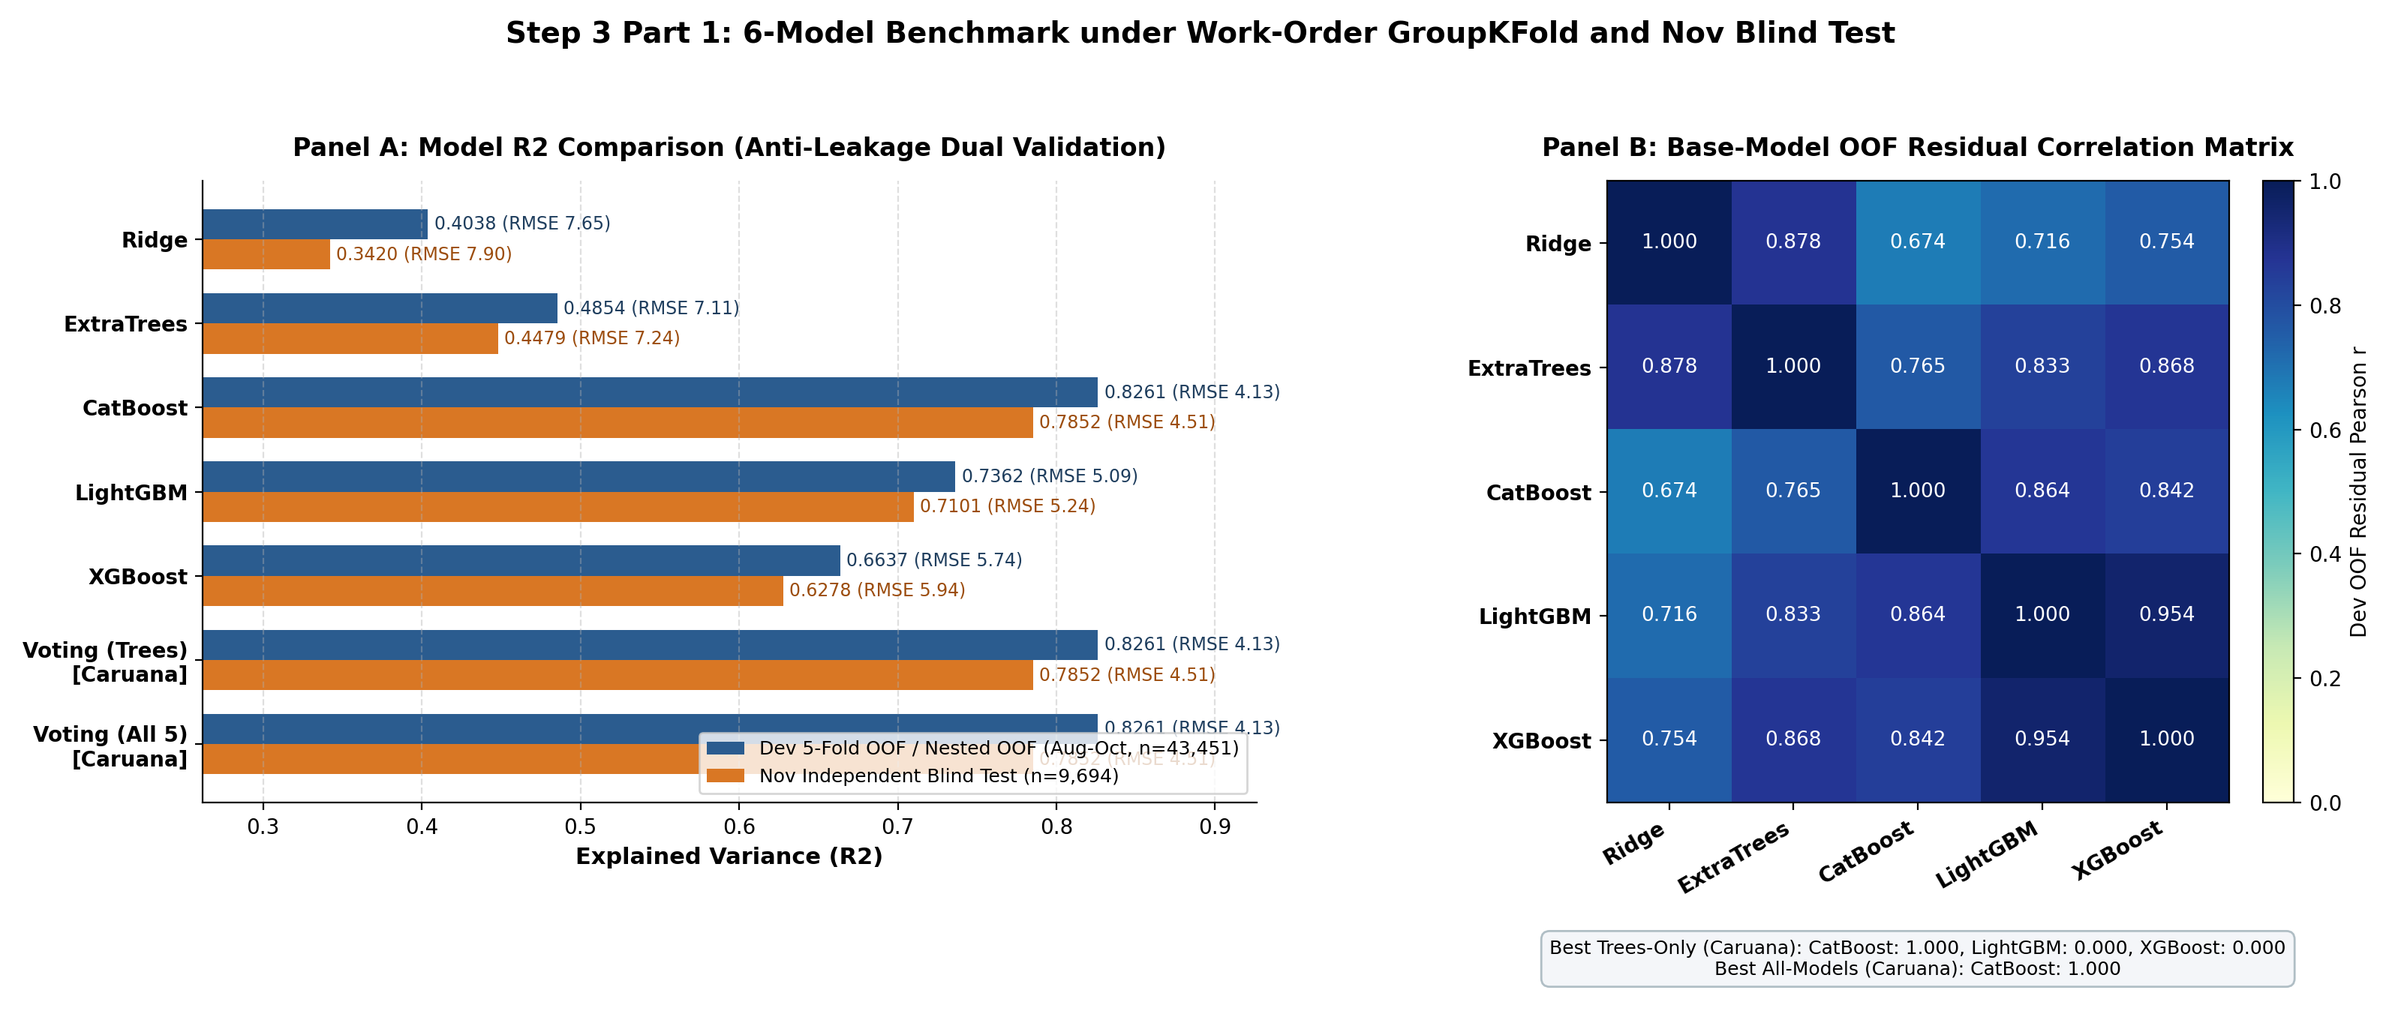
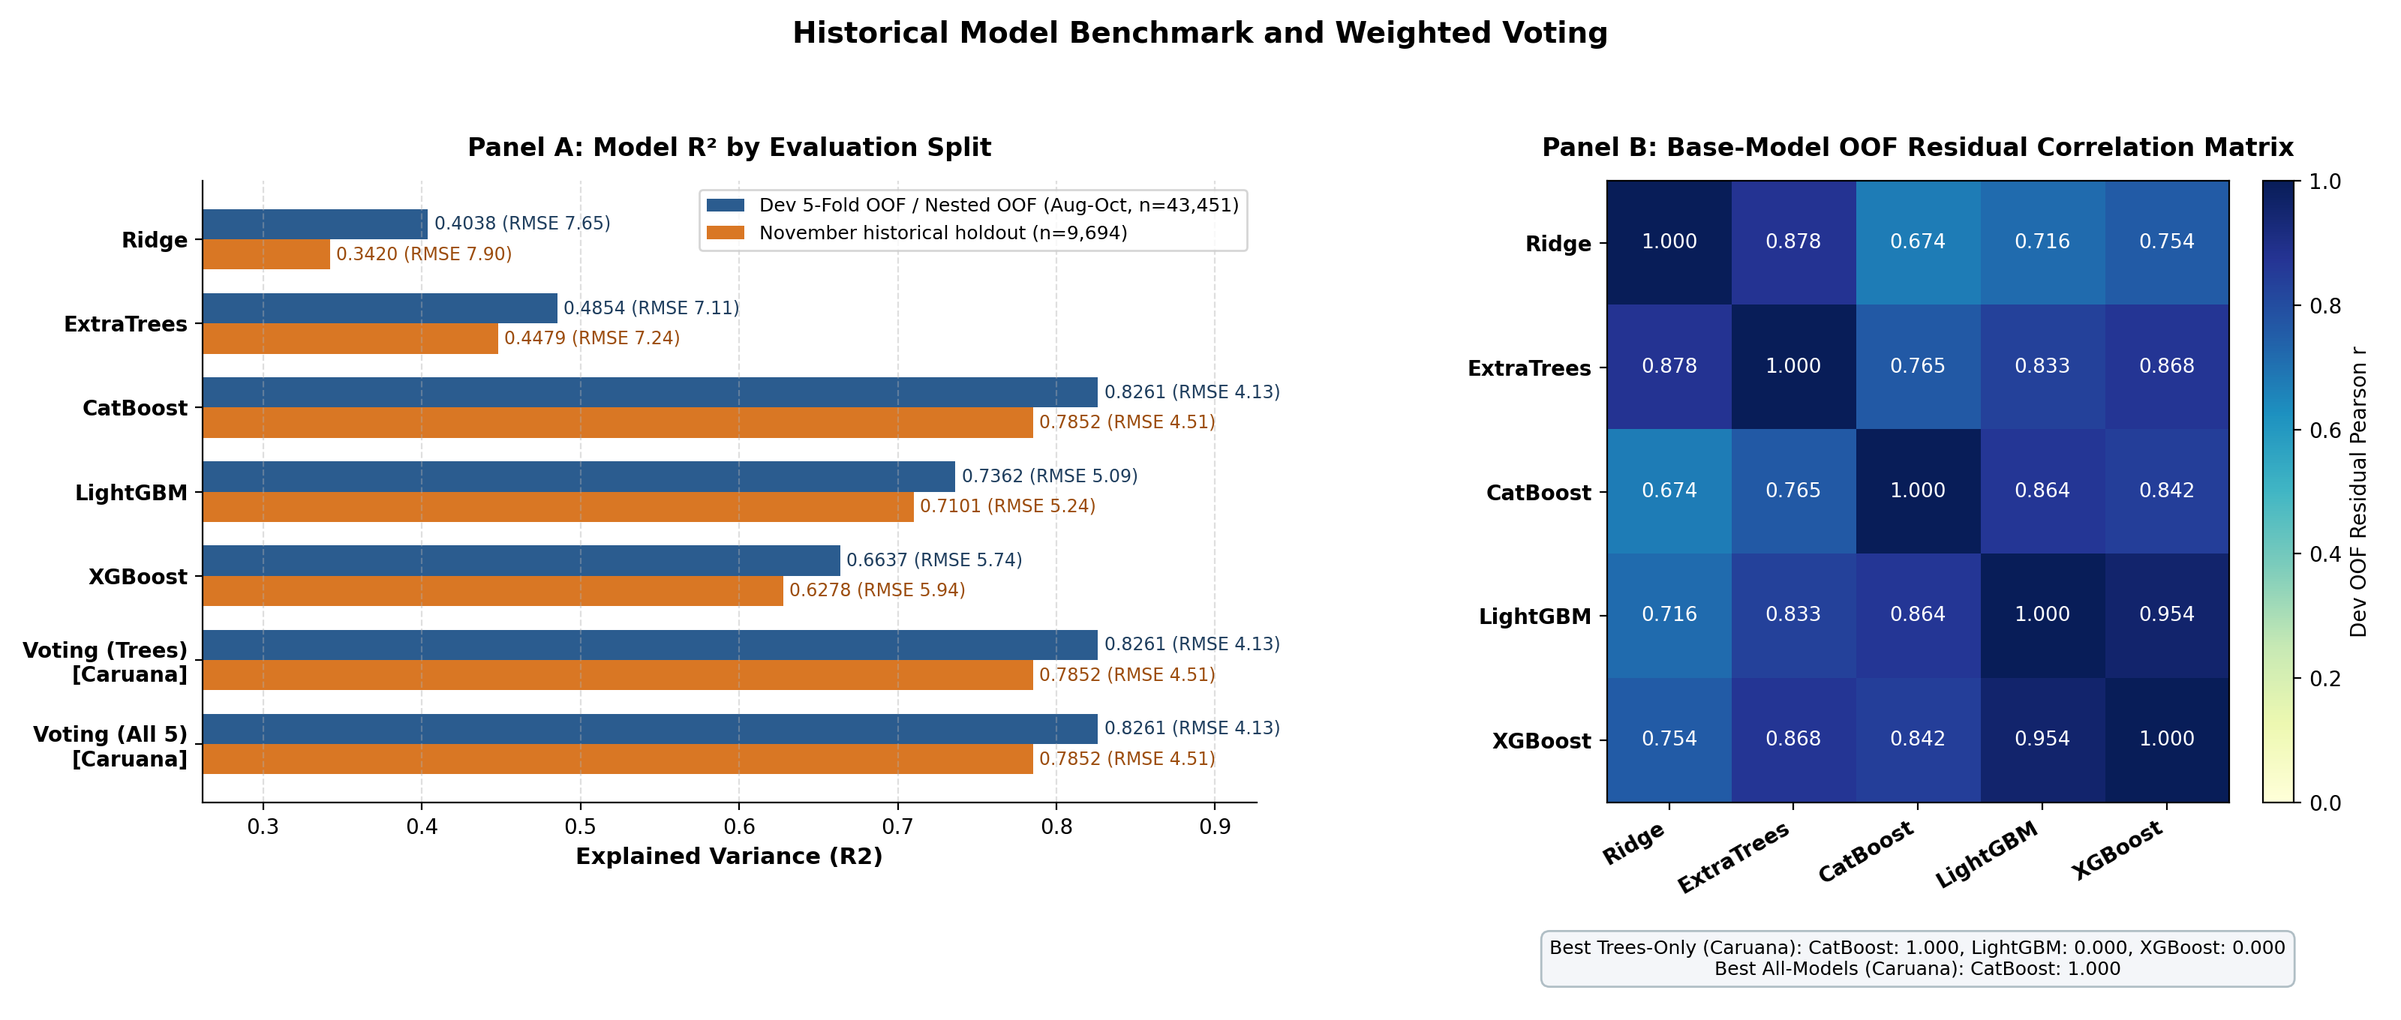
refactor: clarify historical analysis outputs

diff --git a/src/step1_data_cleaner.py b/src/step1_data_cleaner.py
@@ -1,36 +1,35 @@
 # -*- coding: utf-8 -*-
 """
 ====================================================================
-第一步：物理提纯与无失真数据清洗流水线 (Industrial Data Cleaner)
+第一步：数据清洗与类型规范化 (Industrial Data Cleaner)
 ====================================================================
-本脚本严格遵循“物理提纯 + 保留真实名义类别”的原则，坚决杜绝把无序文本/代号
-强行编成 1,2,3 或频次占比（避免制造虚假线性关系），具体执行以下 5 大动作：
+清洗原始数据并保留无序类别的字符串类型，避免引入人为顺序。处理步骤如下：
 
 1. 【物理异常修正】：
    - 将 OperatorOverlapSeconds 和 OperatorCoverageRatio 中小于 0 的异常负数截断为 0。
-2. 【剔除垃圾、常数与派生/双胞胎列】：
+2. 【剔除无关字段、常数与派生/等价文本列】：
    - 剔除索引、92%纯空格、绝对常数列（6 列）；
-   - 剔除数学严格派生列 & 文本双胞胎列（8 列）；
-   - 剔除单值占比 >= 98% 的伪常数死值列（但显式保护并保留 1_belt_ply_assembly_-_1_strip_rubber_-_width）。
-3. 【34 个非数值/代号列的四批精准物理提纯】：
-   - 先将伪装成数字的代号/类别列 RecipeID、1_belt_ply_assembly_-_local_plant_workcode、OperatorUserID、DestinationInfo 转为干净字符串；
+   - 剔除可由其他字段精确计算的列与等价文本列（8 列）；
+   - 剔除单值占比 >= 98% 的近常数列（但显式保护并保留 1_belt_ply_assembly_-_1_strip_rubber_-_width）。
+3. 【34 个非数值/代号列的分批类型转换】：
+   - 先将以数字表示的代号或类别字段 RecipeID、1_belt_ply_assembly_-_local_plant_workcode、OperatorUserID、DestinationInfo 转为去除首尾空格的字符串；
    - 批次 A（二元开关类，2 列）：oeindicator、1_flange_cushion_-_compound -> 映射为 0/1；
    - 批次 B（天然有序/内嵌真数值类，7 列）：
      * 1_sidewall_-_bom_component_setting -> 去掉 'A=' 转为 float；
      * speed_symbol -> 映射为真实速度上限（km/h）；
-     * 1_wound_cap_ply_-_cf_construction -> 修复空格脏数据后映射为总纤度（dtex）；
+     * 1_wound_cap_ply_-_cf_construction -> 修复多余空格后映射为总纤度（dtex）；
      * bead_-_bead_construction -> 解析 a x b 计算钢丝总根数；
      * ply_lock -> 按层数结构序数编码；
      * article_cluster_link_status -> 按 PLM 生命周期序数编码；
      * tire_size -> 既保留原字符串作为规范规格分组列，又额外拆出 tire_section_width 与 tire_aspect_ratio 两个物理数值列；
    - 批次 C（低基数无序名义类，18 列，含 DestinationInfo）与 批次 D（高基数无序代号类，7 列，含 OperatorUserID）+ tire_size：
-     * 严禁乱编数字！仅做首尾空格清理，原封不动保留干净文本字符串（共 26 个类别字符串列）。
+     * 删除首尾空格并保留类别字符串（共 26 个类别字符串列）。
 4. 【全局去重】：
-   - 删除完全一模一样的重复行，并重置行索引。
+   - 删除完全重复的记录，并重置行索引。
 5. 【输出与严格自检】：
-   - 导出洁净数据集：data/processed/clean_dataset.csv
+   - 导出清洗后的数据集：data/processed/clean_dataset.csv
    - 导出特征结构元数据：data/processed/feature_schema.json
-   - 清理旧版易引发误会的 text_encoding_dictionary.json
+   - 清理旧版 text_encoding_dictionary.json
    - 对输出结果执行 0 NaN、0 Inf 断言校验，并打印全列类型统计与关键样例。
 """
 
@@ -54,13 +53,13 @@ class IndustrialDataCleaner:
         self.output_dir = output_dir
         os.makedirs(self.output_dir, exist_ok=True)
 
-        # 显式受保护的列：即使占比接近阈值也绝不误删
+        # 显式受保护的列：即使达到占比阈值也予以保留
         self.protected_cols = {
             self.target_col,
             "1_belt_ply_assembly_-_1_strip_rubber_-_width",
         }
 
-        # 记录四批提纯的完整元数据，最终写入 feature_schema.json
+        # 记录四批类型转换的完整元数据，最终写入 feature_schema.json
         self.schema = {
             "target_col": self.target_col,
             "dataset_shape": {},
@@ -102,7 +101,7 @@ class IndustrialDataCleaner:
     def _apply_strict_map(series: pd.Series, mapping: dict, col_name: str) -> pd.Series:
         """
         严格字典映射辅助函数：先去首尾空格，再校验全列无未知取值，最后映射为 float。
-        绝不允许悄悄变成 NaN！
+        无法解析时抛出异常。
         """
         cleaned = series.astype(str).str.strip()
         unknown_vals = set(cleaned.unique()) - set(mapping.keys())
@@ -112,7 +111,7 @@ class IndustrialDataCleaner:
 
     def run(self) -> pd.DataFrame:
         print("=" * 75)
-        print("【第一步：物理提纯与无失真数据清洗流水线 · 启动】")
+        print("[INFO] 启动 Step 1 数据清洗与类型规范化")
 
         # 0. 读取原始数据（low_memory=False 防止混合类型警告）
         df = pd.read_csv(self.data_path, low_memory=False)
@@ -128,7 +127,7 @@ class IndustrialDataCleaner:
                 print(f"[1] 物理异常修正 [{col}]: 已将 {neg_cnt} 行异常负数截断为 0")
 
         # ------------------------------------------------------------------
-        # 2. 剔除无用、纯空格、绝对常数、派生与双胞胎列
+        # 2. 剔除无用、纯空格、绝对常数、派生与等价文本列
         # ------------------------------------------------------------------
         drop_basic = [
             "Unnamed: 0",        # 无意义导出行号
@@ -157,7 +156,7 @@ class IndustrialDataCleaner:
         all_explicit_drop = to_drop_basic + to_drop_derived + to_drop_twins
 
         df.drop(columns=all_explicit_drop, inplace=True)
-        print(f"[2.1] 已剔除无用/常数/派生/双胞胎列共 {len(all_explicit_drop)} 列")
+        print(f"[2.1] 已剔除无用/常数/派生/等价文本列共 {len(all_explicit_drop)} 列")
 
         # 剔除伪常数列（单一值占比 >= 98%），显式跳过目标列和受保护特征列
         pseudo_drop = []
@@ -185,9 +184,9 @@ class IndustrialDataCleaner:
         }
 
         # ------------------------------------------------------------------
-        # 3. 34 个非数值/代号列的“四批精准物理提纯”
+        # 3. 34 个非数值/代号列的“分批类型转换”
         # ------------------------------------------------------------------
-        # 先把伪装成大整数的代号/类别列强制转为干净字符串 (id_as_cat)
+        # 将以整数表示的代号或类别字段转为字符串并清理首尾空格
         id_as_cat = [
             "RecipeID",
             "1_belt_ply_assembly_-_local_plant_workcode",
@@ -251,7 +250,7 @@ class IndustrialDataCleaner:
             "mapping": speed_map,
         }
 
-        # B3: 1_wound_cap_ply_-_cf_construction -> 先修复空格脏数据，再映射为总纤度 (dtex)
+        # B3: 1_wound_cap_ply_-_cf_construction -> 先修复多余空格，再映射为总纤度 (dtex)
         cap_cleaned = (
             df["1_wound_cap_ply_-_cf_construction"]
             .astype(str)
@@ -326,10 +325,10 @@ class IndustrialDataCleaner:
             "tire_section_width": "从 tire_size 解析出的轮胎名义断面宽度 (mm)",
             "tire_aspect_ratio": "从 tire_size 解析出的轮胎扁平比 (%)",
         }
-        print("[3.2] 批次 B（天然有序/内嵌真数值 7 列）提纯完成，并拆出 tire_section_width 与 tire_aspect_ratio")
+        print("[3.2] 批次 B（天然有序/内嵌真数值 7 列）转换完成，并拆出 tire_section_width 与 tire_aspect_ratio")
 
         # --- 批次 C（18 列，含 DestinationInfo） & 批次 D（7 列，含 OperatorUserID）+ 保留原字符串的 tire_size（共 26 个类别字符串列） ---
-        # 注意：严禁乱编 1,2,3 或频次占比！仅清理首尾空格，原封不动保留干净字符串
+        # 去除首尾空格并保留类别字符串
         batch_a_cols = ["oeindicator", "1_flange_cushion_-_compound"]
         batch_b_numeric_cols = [
             "1_sidewall_-_bom_component_setting",
@@ -347,10 +346,10 @@ class IndustrialDataCleaner:
 
         # 统计并区分低基数 (Batch C) 与高基数 (Batch D + tire_size)
         cat_unique_counts = {c: int(df[c].nunique()) for c in categorical_cols}
-        print(f"[3.3] 批次 C+D 及 tire_size（共 {len(categorical_cols)} 列）已保留干净原始文本字符串，严禁伪数字编码！")
+        print(f"[3.3] 批次 C+D 及 tire_size（共 {len(categorical_cols)} 列）已保留原字符串类型。")
 
         # ------------------------------------------------------------------
-        # 4. 去除完全一模一样的重复行
+        # 4. 去除完全重复的记录
         # ------------------------------------------------------------------
         before_dup = len(df)
         df = df.drop_duplicates().reset_index(drop=True)
@@ -382,10 +381,10 @@ class IndustrialDataCleaner:
         with open(schema_path, "w", encoding="utf-8") as f:
             json.dump(self.schema, f, ensure_ascii=False, indent=2)
 
-        # 删除旧的容易引起误会的 text_encoding_dictionary.json
+        # 删除旧版 text_encoding_dictionary.json
         if os.path.exists(old_dict_path):
             os.remove(old_dict_path)
-            print(f"[5.0] 已移除旧版易产生误导的字典文件: {old_dict_path}")
+            print(f"[5.0] 已移除旧版字典文件: {old_dict_path}")
 
         # 执行落地后的回读严格自检
         self._verify_outputs(df, clean_path, schema_path, numeric_features, categorical_cols)
@@ -403,7 +402,7 @@ class IndustrialDataCleaner:
         严格断言校验：回读导出的 clean_dataset.csv，确保 0 NaN、0 Inf、类别列数量精确、样例无误。
         """
         print("\n" + "-" * 75)
-        print("【严格自检报告 · 逐项断言验证】")
+        print("[INFO] 校验清洗结果")
 
         # 回读时显式将 26 个类别列按 str 读取，防止 RecipeID / OperatorUserID / DestinationInfo 等纯数字代号被误读为整型
         dtype_map = {c: str for c in categorical_cols}
@@ -441,14 +440,14 @@ class IndustrialDataCleaner:
         ]:
             assert must_col in df_disk.columns, f"关键列 [{must_col}] 缺失！"
 
-        print(f"  [PASS] 洁净矩阵尺寸: {df_disk.shape[0]:,} 行 × {df_disk.shape[1]} 列")
+        print(f"  [PASS] 清洗后的矩阵尺寸: {df_disk.shape[0]:,} 行 × {df_disk.shape[1]} 列")
         print(f"  [PASS] 目标列 (1 列): {self.target_col} ({df_disk[self.target_col].dtype})")
         print(f"  [PASS] 数值特征列 ({len(numeric_features)} 列): 全部为数值类型，0 个 NaN，0 个 Inf")
         print(f"  [PASS] 无序类别/分组字符串列 ({len(categorical_cols)} 列): 原文保留，0 个空值/NaN")
-        print(f"  [PASS] 洁净数据路径: {clean_path}")
+        print(f"  [PASS] 清洗后的数据路径: {clean_path}")
         print(f"  [PASS] 特征元数据路径: {schema_path}")
 
-        print("\n【关键物理提纯列 & 类别列样例抽查】")
+        print("\n[INFO] 转换字段与类别字段样例")
         sample_cols = [
             "oeindicator",
             "1_flange_cushion_-_compound",
@@ -468,7 +467,7 @@ class IndustrialDataCleaner:
         ]
         for col in sample_cols:
             vals = df_disk[col].unique()[:5].tolist()
-            print(f"  • {col:<46} | dtype={str(df_disk[col].dtype):<8} | nunique={df_disk[col].nunique():<4} | sample={vals}")
+            print(f"  [INFO] {col:<46} | dtype={str(df_disk[col].dtype):<8} | nunique={df_disk[col].nunique():<4} | sample={vals}")
         print("=" * 75)
 
 

diff --git a/src/step3_part2_feature_attribution.py b/src/step3_part2_feature_attribution.py
@@ -841,18 +841,18 @@ def run_stage5_ale(
             "Feature": feat,
             "SHAP_Rank": int(shap_df.loc[shap_df["Feature"] == feat, "SHAP_Rank"].iloc[0]),
             "ALE_Bins": len(midpoints),
-            "Sweet_Spot_Value": float(midpoints[best_i]),
-            "Sweet_Spot_ALE_Sec": float(ale_vals[best_i]),
-            "Worst_Value": float(midpoints[worst_i]),
-            "Worst_ALE_Sec": float(ale_vals[worst_i]),
+            "Min_ALE_Feature_Value": float(midpoints[best_i]),
+            "Min_ALE_Sec": float(ale_vals[best_i]),
+            "Max_ALE_Feature_Value": float(midpoints[worst_i]),
+            "Max_ALE_Sec": float(ale_vals[worst_i]),
             "ALE_Peak_to_Trough_Sec": ale_span,
         })
 
         ax = axes_flat[idx]
         ax.plot(midpoints, ale_vals, color="#2B5C8F", linewidth=2.2, marker="o", markersize=4.5)
         ax.axhline(0.0, color="#555555", linestyle="--", linewidth=1.0)
-        ax.scatter([midpoints[best_i]], [ale_vals[best_i]], color="#1B7837", s=70, zorder=5, label=f"Sweet={midpoints[best_i]:.1f} ({ale_vals[best_i]:+.1f}s)")
-        ax.scatter([midpoints[worst_i]], [ale_vals[worst_i]], color="#C62828", s=70, zorder=5, label=f"Peak={midpoints[worst_i]:.1f} ({ale_vals[worst_i]:+.1f}s)")
+        ax.scatter([midpoints[best_i]], [ale_vals[best_i]], color="#1B7837", s=70, zorder=5, label=f"Minimum ALE: {midpoints[best_i]:.1f} ({ale_vals[best_i]:+.1f}s)")
+        ax.scatter([midpoints[worst_i]], [ale_vals[worst_i]], color="#C62828", s=70, zorder=5, label=f"Maximum ALE: {midpoints[worst_i]:.1f} ({ale_vals[worst_i]:+.1f}s)")
         ax.set_title(f"{feat} (Span={ale_span:.1f}s)", fontsize=11, fontweight="bold")
         ax.set_xlabel(feat, fontsize=9.5)
         ax.set_ylabel("Centered ALE [Seconds]", fontsize=9.5)
@@ -861,7 +861,7 @@ def run_stage5_ale(
         ax.spines["right"].set_visible(False)
         ax.legend(loc="best", fontsize=8.3)
 
-    fig.suptitle("Step 3 Part 2 Stage 5: 1D Accumulated Local Effects (ALE) on Nov Blind Test", fontsize=14, fontweight="bold", y=0.98)
+    fig.suptitle("Step 3 Part 2 Stage 5: 1D Accumulated Local Effects on the November Historical Holdout", fontsize=14, fontweight="bold", y=0.98)
     plt.tight_layout(rect=[0, 0, 1, 0.95])
     fig.savefig(OUT_ALE_PNG, dpi=200)
     plt.close(fig)
@@ -1044,7 +1044,7 @@ def create_synthesis_dashboard(
         ax1.annotate(r["Feature"][:22], (r["SHAP_Rank"], r["Perm_Rank"]), xytext=(4, 3), textcoords="offset points", fontsize=7.8)
     ax1.set_xlabel("Stage 1 TreeSHAP Rank (Lower = More Important)", fontsize=10, fontweight="bold")
     ax1.set_ylabel("Stage 2 Nov Permutation Rank", fontsize=10, fontweight="bold")
-    ax1.set_title("Panel A: TreeSHAP vs Nov Blind Permutation Rank Consistency", fontsize=11.5, fontweight="bold")
+    ax1.set_title("Panel A: TreeSHAP and November Holdout Permutation Ranks", fontsize=11.5, fontweight="bold")
     ax1.grid(True, linestyle="--", alpha=0.35)
     ax1.spines["top"].set_visible(False)
     ax1.spines["right"].set_visible(False)
@@ -1079,8 +1079,8 @@ def create_synthesis_dashboard(
     ax3.set_yticks(y_l)
     ax3.set_yticklabels(loco_plot["Experiment"].str.replace("Single_LOCO_Drop_", "Drop ", regex=False), fontsize=8.8)
     ax3.invert_yaxis()
-    ax3.set_xlabel("Nov Blind R2 Drop (Delta R2 LOCO)", fontsize=10, fontweight="bold")
-    ax3.set_title("Panel C: Irreplaceability Verification via LOCO Retraining", fontsize=11.5, fontweight="bold")
+    ax3.set_xlabel("November Historical Holdout R² Drop", fontsize=10, fontweight="bold")
+    ax3.set_title("Panel C: LOCO Refit Comparison", fontsize=11.5, fontweight="bold")
     ax3.grid(axis="x", linestyle="--", alpha=0.35)
     ax3.spines["top"].set_visible(False)
     ax3.spines["right"].set_visible(False)
@@ -1099,7 +1099,7 @@ def create_synthesis_dashboard(
         color="#1B7837",
         markersize=7,
         capsize=4,
-        label="DML Net Causal Effect (95% CI)",
+        label="Historical DML Estimate (95% CI)",
     )
     ax4.scatter(dml_df["Naive_OLS_Slope_Sec_Per_Unit"], y_d + 0.02, color="#D97724", marker="s", s=55, label="Naive OLS (Confounded)")
     ax4.errorbar(
@@ -1116,13 +1116,13 @@ def create_synthesis_dashboard(
     ax4.set_yticklabels(dml_df["Treatment_Feature"], fontsize=9.5, fontweight="bold")
     ax4.invert_yaxis()
     ax4.set_xlabel("Effect Slope [Seconds per Unit Change]", fontsize=10, fontweight="bold")
-    ax4.set_title("Panel D: DML Causal Net Effects vs Naive OLS & Placebo Check", fontsize=11.5, fontweight="bold")
+    ax4.set_title("Panel D: Historical DML Estimates and Placebo Check", fontsize=11.5, fontweight="bold")
     ax4.grid(axis="x", linestyle="--", alpha=0.35)
     ax4.spines["top"].set_visible(False)
     ax4.spines["right"].set_visible(False)
     ax4.legend(loc="best", fontsize=8.5)
 
-    fig.suptitle("Step 3 Part 2 Synthesis Dashboard: Attribution, Irreplaceability, and Causal Net Effects", fontsize=14, fontweight="bold", y=0.98)
+    fig.suptitle("Step 3 Part 2 Synthesis Dashboard: Attribution, LOCO, and Historical DML Estimates", fontsize=14, fontweight="bold", y=0.98)
     plt.tight_layout(rect=[0, 0, 1, 0.955])
     fig.savefig(OUT_DASH_PNG, dpi=200)
     plt.close(fig)

diff --git a/src/step3_model_benchmark_and_voting.py b/src/step3_model_benchmark_and_voting.py
@@ -1,6 +1,6 @@
 # -*- coding: utf-8 -*-
 """
-Step 3 Part 1: Multi-Model Benchmark, Anti-Leakage Validation, and Weighted Voting.
+Step 3 Part 1: Multi-Model Benchmark, Historical Validation, and Weighted Voting.
 
 Implements 5 base models (Ridge, ExtraTrees, CatBoost, LightGBM, XGBoost) and
 weighted voting ensembles (Equal, SLSQP, Caruana greedy selection) across two
@@ -520,7 +520,7 @@ def create_summary_figure(
         sub_df["Nov_Blind_R2"],
         height=bar_h,
         color="#D97724",
-        label="Nov Independent Blind Test (n=9,694)",
+        label="November historical holdout (n=9,694)",
     )
 
     ax1.set_yticks(y_pos)
@@ -528,7 +528,7 @@ def create_summary_figure(
     ax1.invert_yaxis()
     ax1.set_xlabel("Explained Variance (R2)", fontsize=11, fontweight="bold")
     ax1.set_title(
-        "Panel A: Model R2 Comparison (Anti-Leakage Dual Validation)",
+        "Panel A: Model R² by Evaluation Split",
         fontsize=12,
         fontweight="bold",
         pad=12,
@@ -563,7 +563,7 @@ def create_summary_figure(
             color="#9C4D0E",
         )
 
-    ax1.legend(loc="lower right", frameon=True, fontsize=9)
+    ax1.legend(loc="upper right", frameon=True, fontsize=9)
 
     # Panel B: Residual Correlation Heatmap + Weight Annotation Box
     ax2 = axes[1]
@@ -609,7 +609,7 @@ def create_summary_figure(
     )
 
     fig.suptitle(
-        "Step 3 Part 1: 6-Model Benchmark under Work-Order GroupKFold and Nov Blind Test",
+        "Historical Model Benchmark and Weighted Voting",
         fontsize=14,
         fontweight="bold",
         y=0.98,
